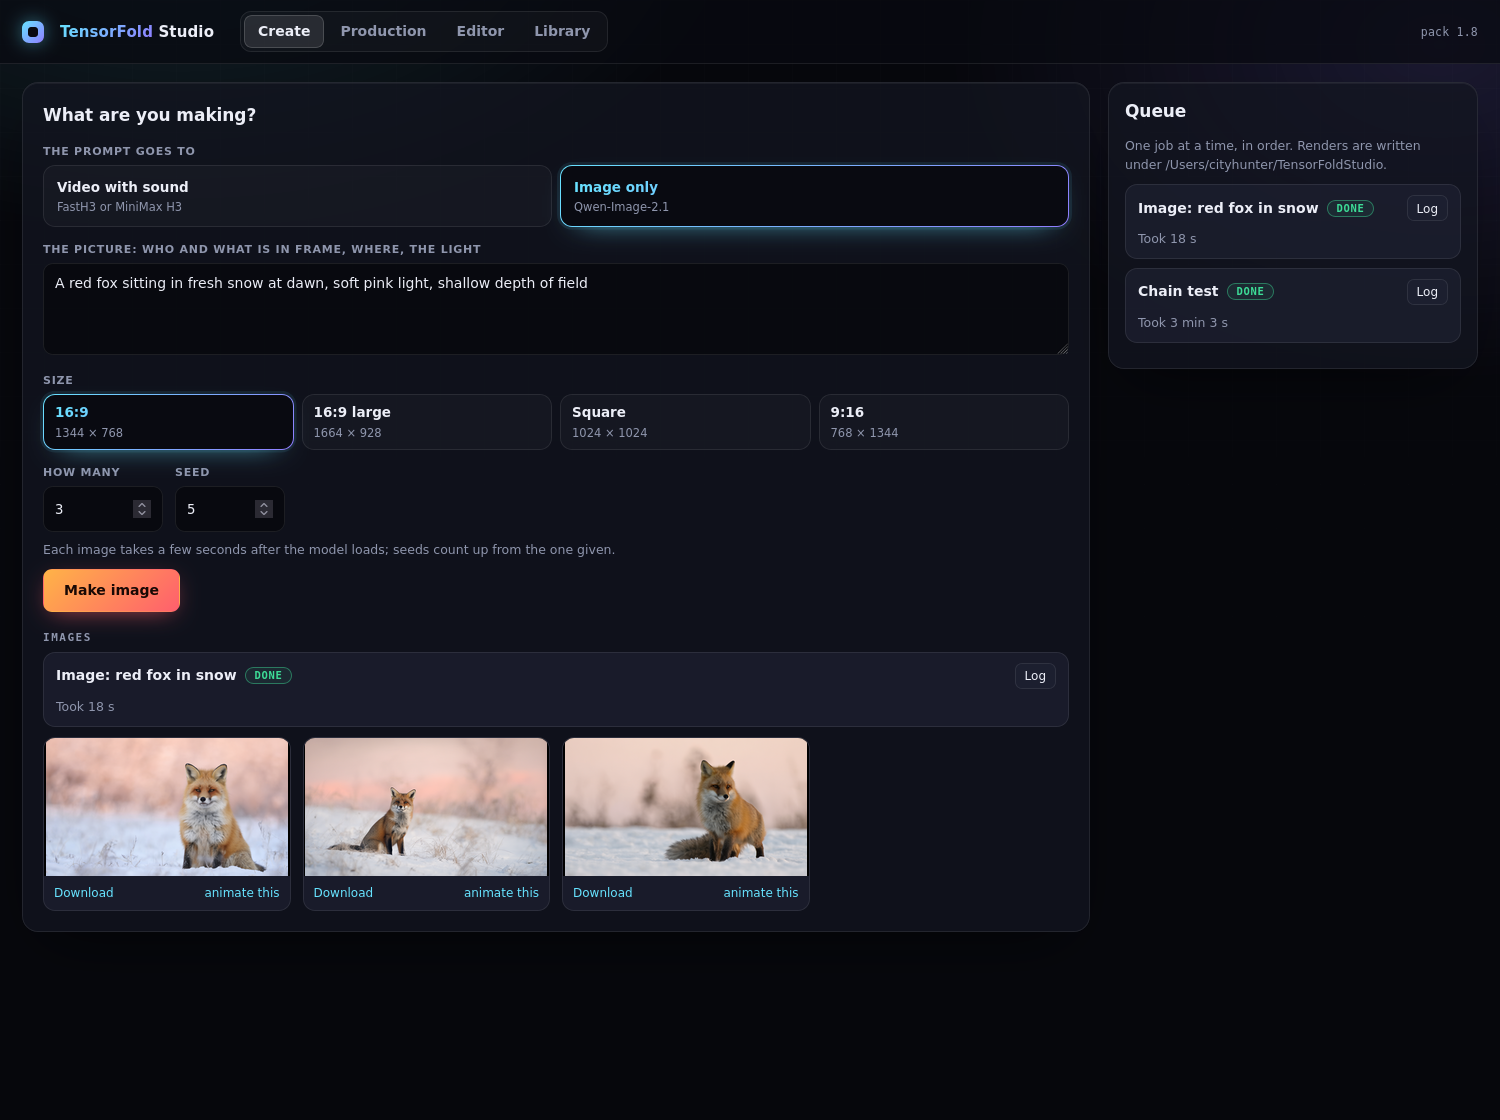
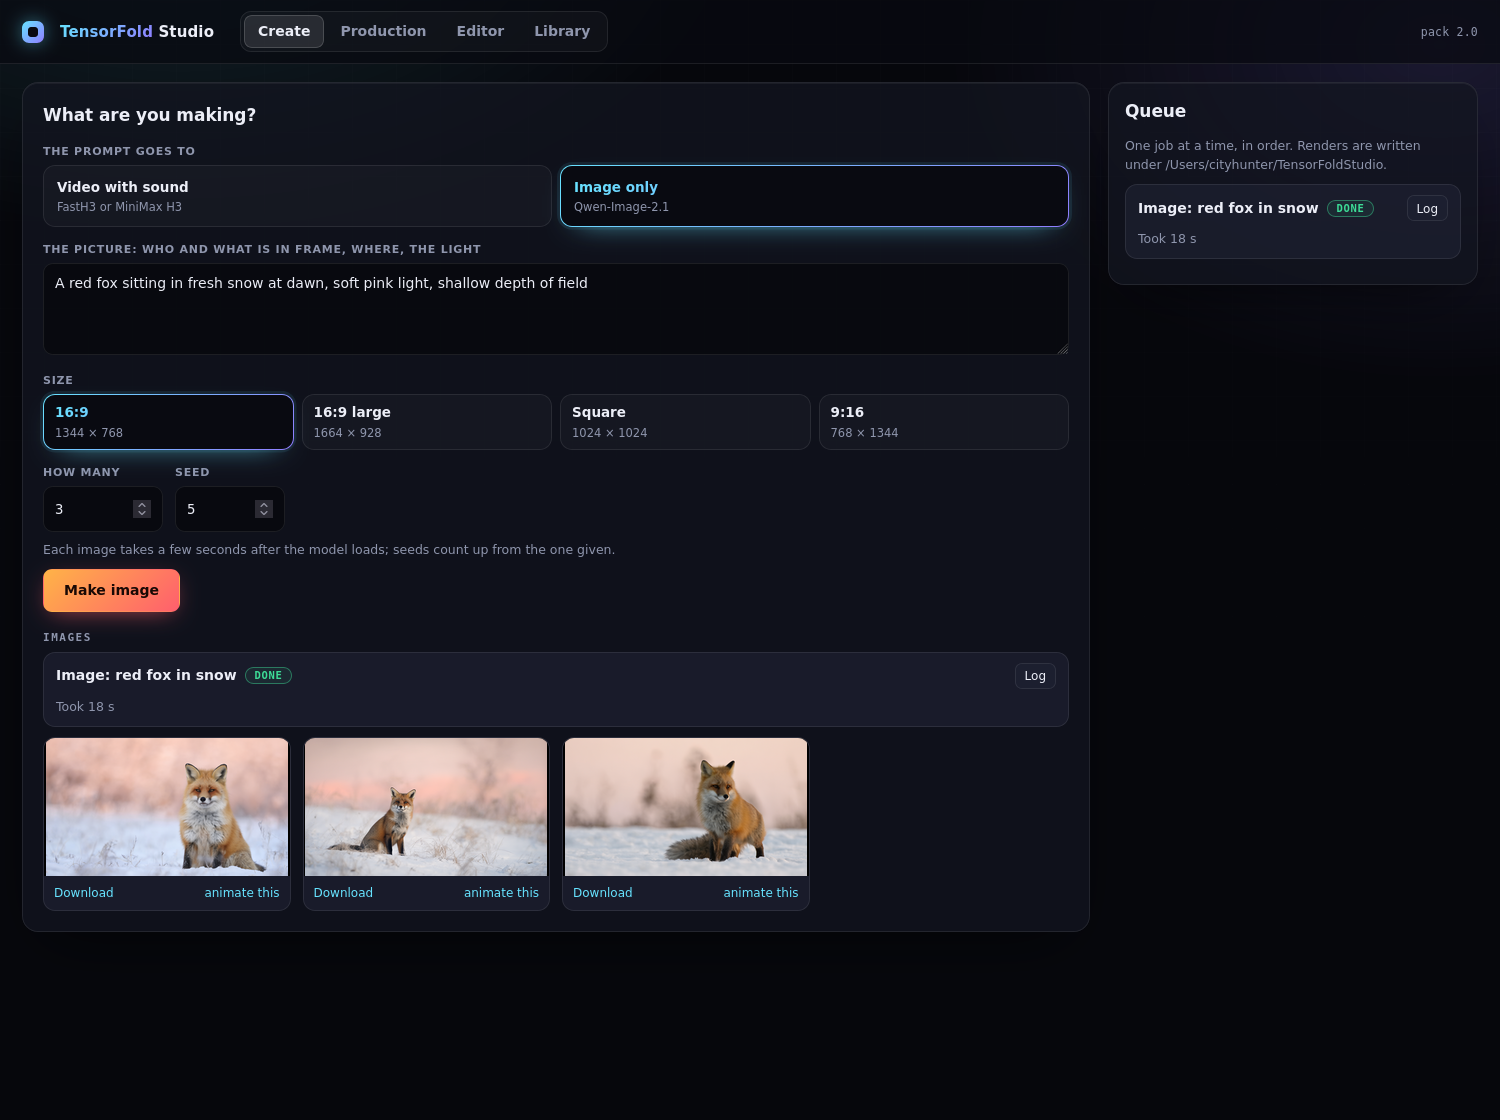
2.0: carrier image with the prebuilt native engine, refreshed screenshots
Carrier ghcr.io/drowzeys/keys-mac-tensorfold-studio:2.0 holds tf-h3-dit built at
drowzeys/TensorFold h3-firstframe 4741fd0, so the one-shot install needs no Zig toolchain.

Claude-Session: https://claude.ai/code/session_01PrUiTH1dGwnVKrpFLkoGHj

Changed region(s): [[0.736, 0.25, 0.9813, 0.3125]]

diff --git a/README.md b/README.md
@@ -466,11 +466,11 @@ aspect ratio.
 
 ```bash
 docker pull ghcr.io/drowzeys/keys-mac-tensorfold-studio:2.0
-# index digest: DIGEST_2_0 (linux/arm64 + linux/amd64)
+# index digest: sha256:f65dbc3330cf5ffc521d2e9557a52c58de1791c2fbeca56465c3a53b761fba11 (linux/arm64 + linux/amd64)
 docker run --rm -v "$PWD":/out ghcr.io/drowzeys/keys-mac-tensorfold-studio:2.0 cp -a /payload/. /out/payload/
 ```
 
-The carrier holds the TensorFold wheel, `requirements.lock`, the two render scripts and `SHA256SUMS`. **It is not a
+The carrier holds the TensorFold wheel, `requirements.lock`, the render scripts, the prebuilt native FastH3 engine (`zig-engine/tf-h3-dit`, built for Apple Silicon at the pinned commit) and `SHA256SUMS`. **It is not a
 Mac runtime**: Metal does not run in a container, so `oneshot-setup.sh` installs the payload natively. Rebuild it with
 `PUSH=1 bash scripts/build-carrier.sh`.
 
